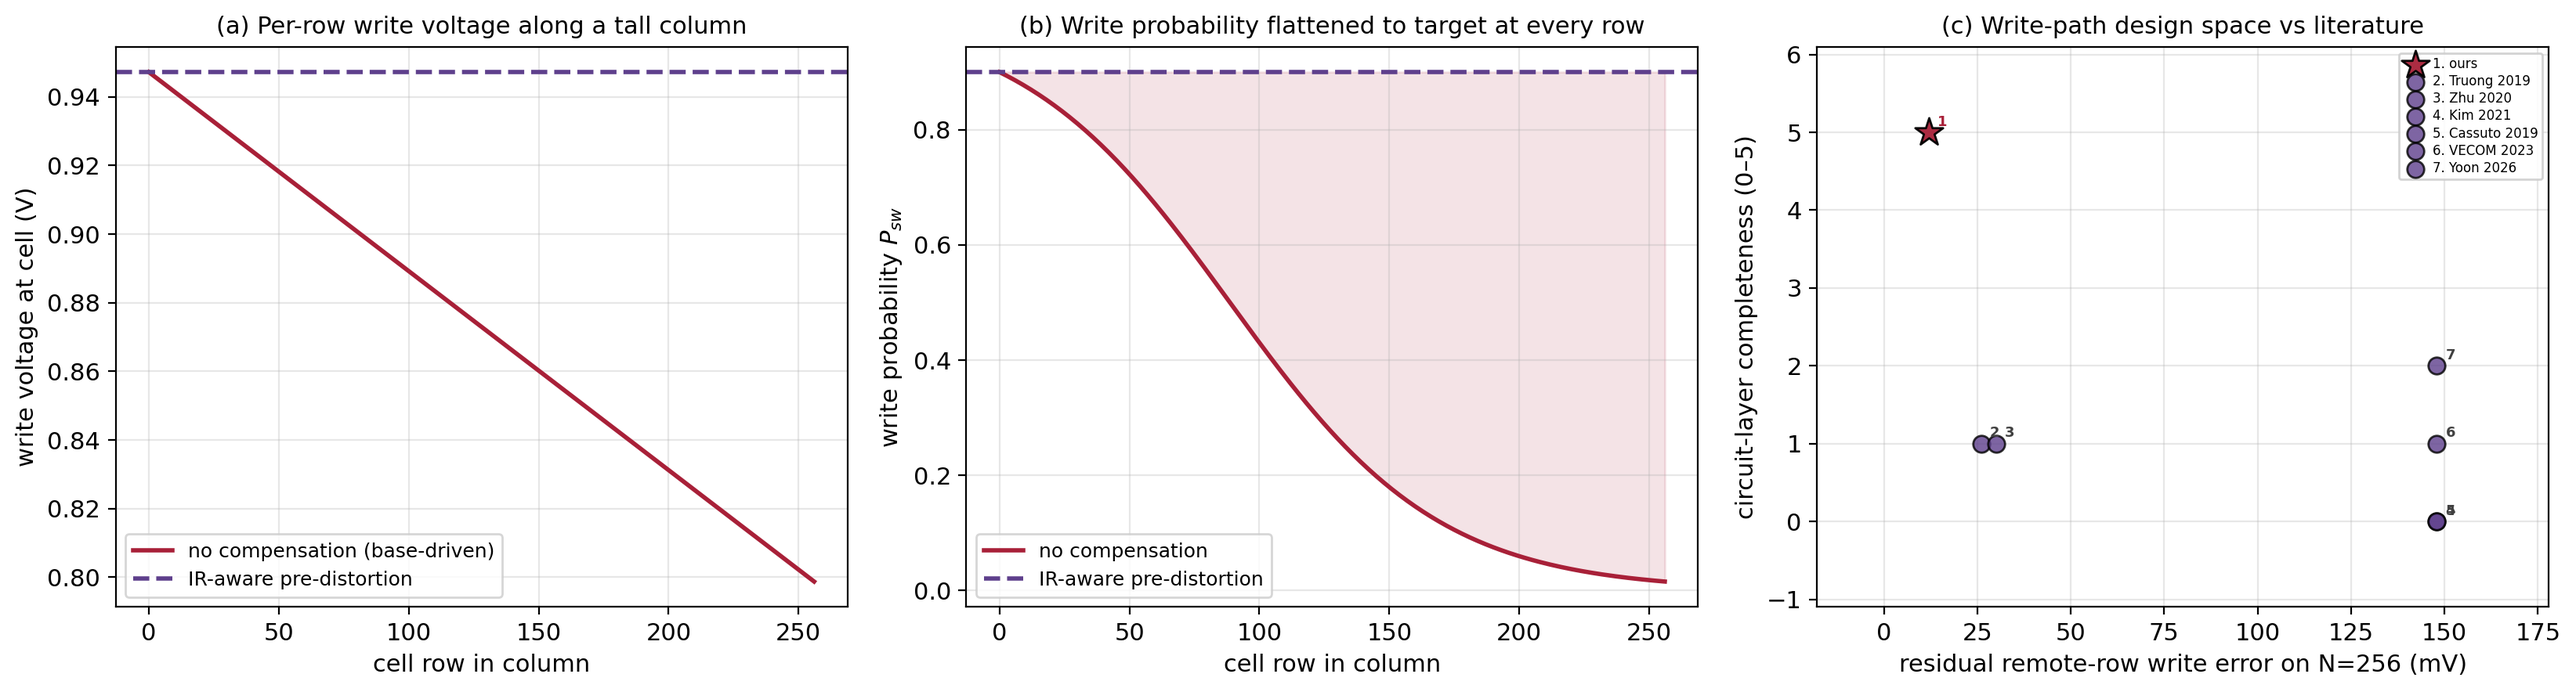
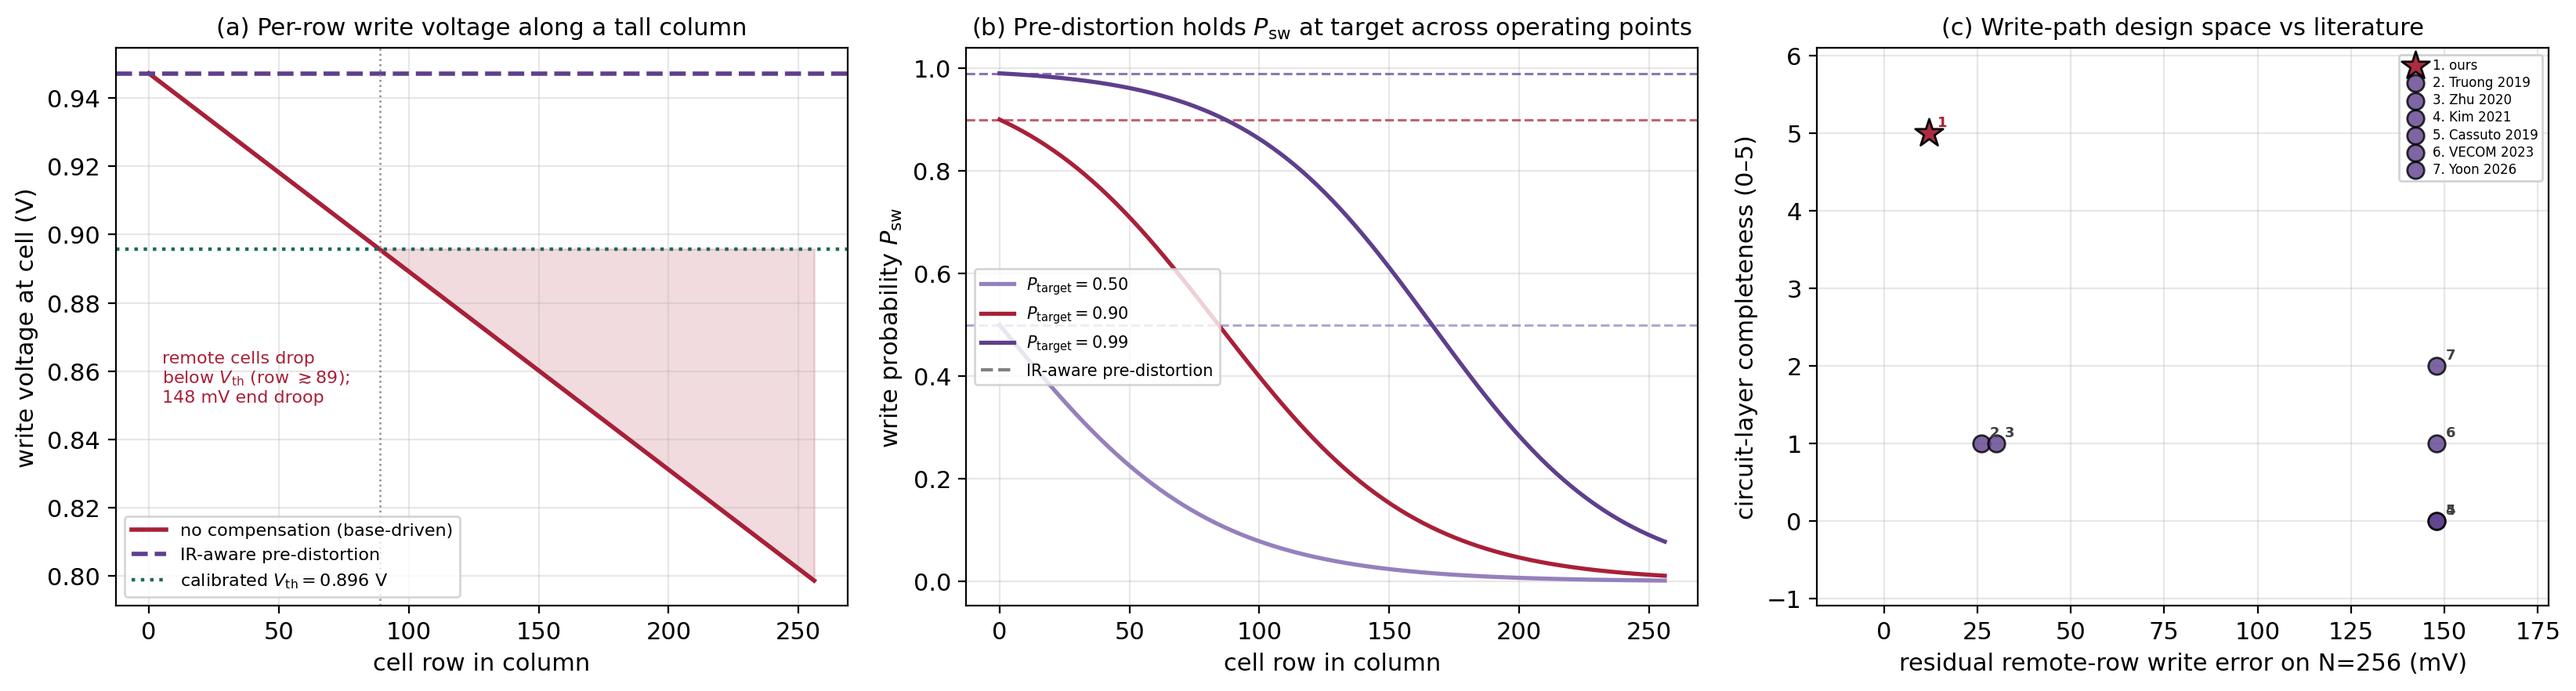
③ enrich fig 18 panels (a)/(b) with more information content
Address "(a),(b) carry too little information":
- (a) now overlays the calibrated V_th line, shades the below-threshold
  (write-fail) region, and annotates the failure row + end droop -- showing
  WHERE and by how much remote writes fail, not just a bare droop line.
- (b) now sweeps three target operating points (P_target = 0.5/0.9/0.99):
  each collapses along the column without compensation, and the IR-aware
  pre-distortion holds every row at its target -- demonstrating the fix is
  operating-point-robust, not a single-curve illustration.
Caption updated to match.

diff --git a/eda/gen_supplement_figs.py b/eda/gen_supplement_figs.py
@@ -211,17 +211,30 @@ def fig5():
     v_nopd = Vt - Iw * rpar
     psw = lambda v: 1.0 / (1.0 + np.exp(-(v - VTH) / VT))
     fig, ax = plt.subplots(1, 3, figsize=(16.6, 4.6))
+    # (a) per-row write voltage: droop vs flattened, with the calibrated V_th crossing
     ax[0].plot(r, v_nopd, "-", color=RED, lw=2, label="no compensation (base-driven)")
     ax[0].axhline(Vt, color=PURPLE, lw=2, ls="--", label="IR-aware pre-distortion")
+    ax[0].axhline(VTH, color=GREEN, lw=1.6, ls=":", label=r"calibrated $V_\mathrm{th}=%.3f$ V" % VTH)
+    ax[0].fill_between(r, v_nopd, VTH, where=(v_nopd < VTH), color=RED, alpha=0.16)
+    below = np.where(v_nopd < VTH)[0]
+    if len(below):
+        rc = int(below[0]); drop_mV = (Vt - v_nopd[-1]) * 1e3
+        ax[0].axvline(rc, color="0.55", lw=0.9, ls=":")
+        ax[0].annotate(f"remote cells drop\nbelow $V_{{\\mathrm{{th}}}}$ (row $\\gtrsim${rc});\n{drop_mV:.0f} mV end droop",
+                       xy=(rc, VTH), xytext=(max(rc - 150, 5), VTH - 0.045), fontsize=8, color=RED)
     ax[0].set_xlabel("cell row in column"); ax[0].set_ylabel("write voltage at cell (V)")
     ax[0].set_title("(a) Per-row write voltage along a tall column")
-    ax[0].legend(fontsize=9)
-    ax[1].plot(r, psw(v_nopd), "-", color=RED, lw=2, label="no compensation")
-    ax[1].axhline(psw(Vt), color=PURPLE, lw=2, ls="--", label="IR-aware pre-distortion")
-    ax[1].fill_between(r, psw(v_nopd), psw(Vt), color=RED, alpha=0.12)
-    ax[1].set_xlabel("cell row in column"); ax[1].set_ylabel("write probability $P_{sw}$")
-    ax[1].set_title("(b) Write probability flattened to target at every row")
-    ax[1].legend(fontsize=9)
+    ax[0].legend(fontsize=8, loc="lower left")
+    # (b) P_sw for three target operating points; pre-distortion holds each at target
+    for pt, c in zip((0.5, 0.9, 0.99), (DEEP, RED, PURPLE)):
+        Vtgt = VTH + VT * np.log(pt / (1 - pt))
+        v = Vtgt - (Vtgt / 776.0) * rpar
+        ax[1].plot(r, psw(v), "-", color=c, lw=1.9, label=r"$P_\mathrm{target}=%.2f$" % pt)
+        ax[1].axhline(pt, color=c, lw=1.1, ls="--", alpha=0.7)
+    ax[1].plot([], [], color="0.5", ls="--", label="IR-aware pre-distortion")
+    ax[1].set_xlabel("cell row in column"); ax[1].set_ylabel(r"write probability $P_\mathrm{sw}$")
+    ax[1].set_title("(b) Pre-distortion holds $P_\\mathrm{sw}$ at target across operating points")
+    ax[1].legend(fontsize=7.5, loc="center left")
     # (c) write-path design space vs surveyed literature (numbered markers + legend)
     design_cmp_panel(ax[2], "write_dac_ir", "(c) Write-path design space vs literature",
                      "residual remote-row write error on N=256 (mV)",
